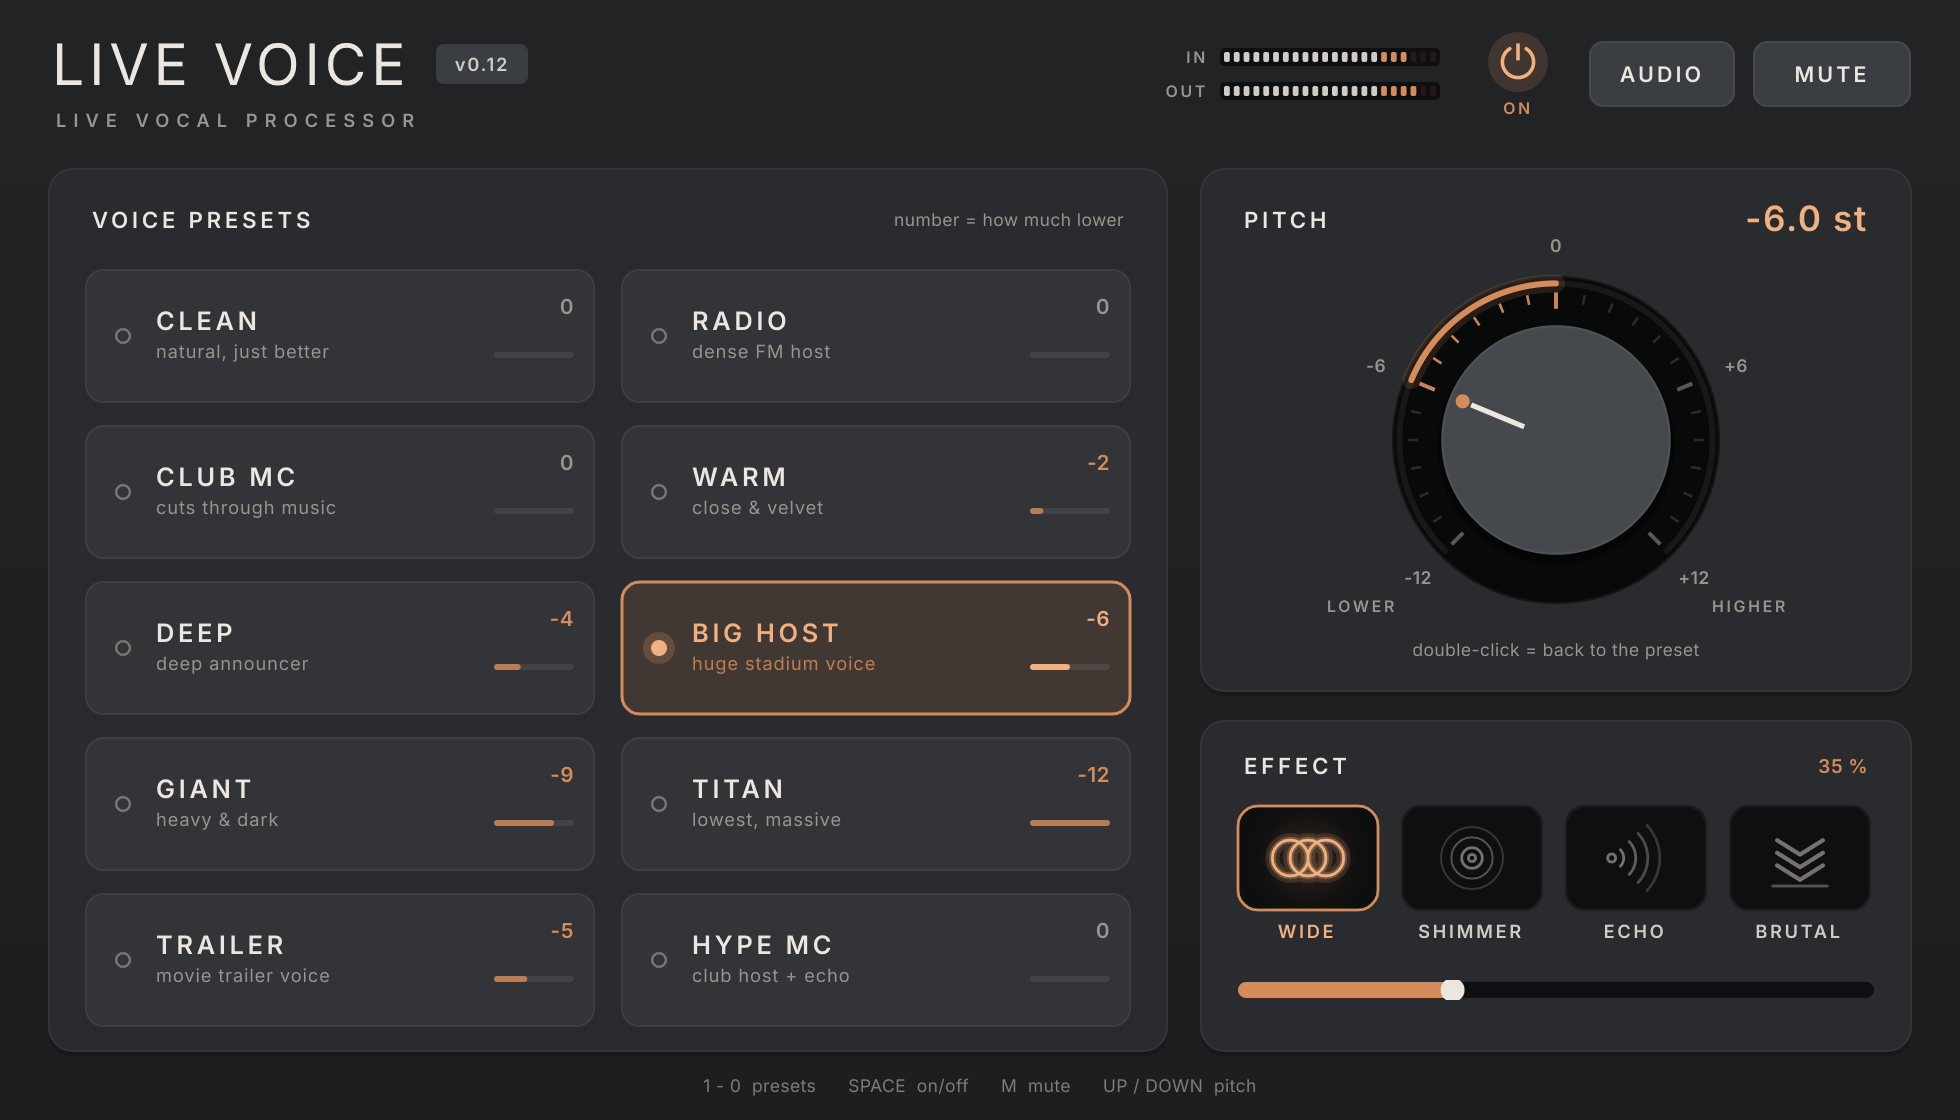
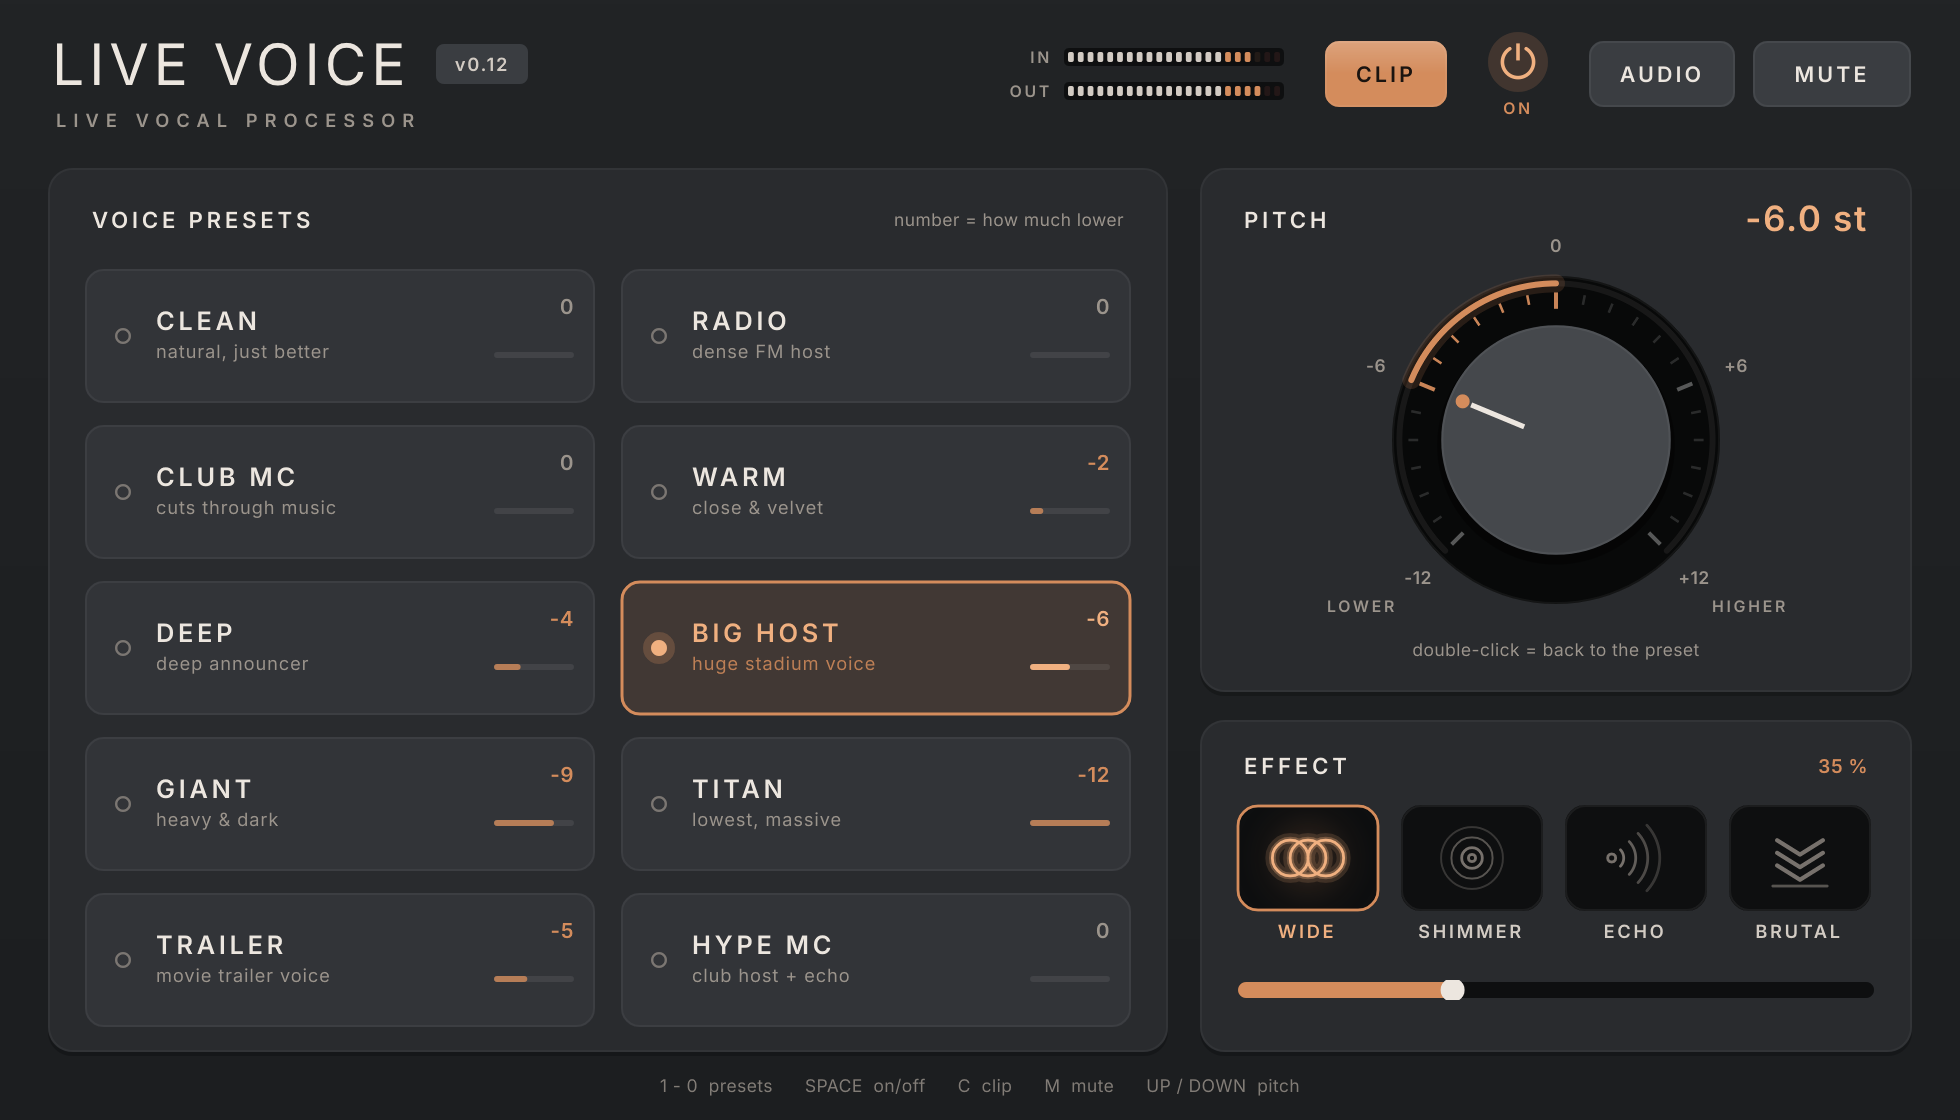
LIVE VOICE 0.12: simple preset UI, CLIP button, noise fix, highs kept
- 10 commercial VOICE PRESET tiles, PITCH knob, 4 effect buttons + amount, CLIP / ON / AUDIO / MUTE
- adaptive noise gate + post-compressor noise duck: pauses quieter than the input
- original highs above 4.5 kHz when the voice is lowered
- docs: client instructions, offline handbook, README, AGENTS

Claude-Session: https://claude.ai/code/session_01Hux4b5APwPNLszPe84Rua1

diff --git a/Source/PluginEditor.cpp b/Source/PluginEditor.cpp
@@ -394,6 +394,9 @@ LiveVoiceEditor::LiveVoiceEditor (LiveVoiceProcessor& p) : AudioProcessorEditor 
     aMute = std::make_unique<BA> (st, ParamID::mute, muteBtn);
     audioBtn.onClick = [] { if (LiveVoiceEditor::onAudioSettings) LiveVoiceEditor::onAudioSettings(); };
     addAndMakeVisible (audioBtn);
+    clipBtn.setClickingTogglesState (true);
+    addAndMakeVisible (clipBtn);
+    aClip = std::make_unique<BA> (st, ParamID::clipOn, clipBtn);
 
     for (int i = 0; i < kNumVoices; ++i)
     {
@@ -500,6 +503,7 @@ bool LiveVoiceEditor::keyPressed (const KeyPress& k)
     if (ch == 'm' || ch == 'M' || ch == L'ь' || ch == L'Ь') { setParam (ParamID::mute, getParam (ParamID::mute) > 0.5f ? 0.0f : 1.0f); return true; }
     if (k == KeyPress::upKey)   { setParam (ParamID::formant, jmin (12.0f, std::round (getParam (ParamID::formant)) + 1.0f)); return true; }
     if (k == KeyPress::downKey) { setParam (ParamID::formant, jmax (-12.0f, std::round (getParam (ParamID::formant)) - 1.0f)); return true; }
+    if (ch == 'c' || ch == 'C' || ch == L'с' || ch == L'С') { setParam (ParamID::clipOn, getParam (ParamID::clipOn) > 0.5f ? 0.0f : 1.0f); return true; }
     if (ch >= '1' && ch <= '9') { selectVoice ((int) (ch - '1')); return true; }
     if (ch == '0') { selectVoice (9); return true; }
     return false;
@@ -564,7 +568,7 @@ void LiveVoiceEditor::paint (Graphics& g)
                 Rectangle<int> (sfxPanel.getRight() - 122, sfxPanel.getY() + 12, 100, 22), Justification::centredRight);
 
     g.setColour (Palette::textDim.withAlpha (0.8f)); g.setFont (uiFont (11.0f));
-    g.drawText ("1 - 0  presets      SPACE  on/off      M  mute      UP / DOWN  pitch",
+    g.drawText ("1 - 0  presets      SPACE  on/off      C  clip      M  mute      UP / DOWN  pitch",
                 Rectangle<int> (0, getHeight() - 26, getWidth(), 18), Justification::centred);
 }
 
@@ -573,7 +577,8 @@ void LiveVoiceEditor::resized()
     muteBtn.setBounds (getWidth() - 24 - 80, 20, 80, 34);
     audioBtn.setBounds (muteBtn.getX() - 8 - 74, 20, 74, 34);
     powerBtn.setBounds (audioBtn.getX() - 18 - 34, 14, 34, 34);
-    outMeter.setBounds (powerBtn.getX() - 22 - 110, 41, 110, 9);
+    clipBtn.setBounds (powerBtn.getX() - 18 - 62, 20, 62, 34);
+    outMeter.setBounds (clipBtn.getX() - 20 - 110, 41, 110, 9);
     inMeter.setBounds (outMeter.getX(), 24, 110, 9);
 
     const int top = 84, h = getHeight() - top - 34;

diff --git a/Source/PluginEditor.h b/Source/PluginEditor.h
@@ -99,14 +99,14 @@ private:
 
     LevelMeter inMeter, outMeter;
     Lamp powerBtn;
-    juce::TextButton muteBtn { "MUTE" }, audioBtn { "AUDIO" };
+    juce::TextButton muteBtn { "MUTE" }, audioBtn { "AUDIO" }, clipBtn { "CLIP" };
     juce::OwnedArray<VoiceTile> tiles;
     juce::Slider pitchKnob;              // PITCH = voice size (parameter "formant")
     juce::OwnedArray<SfxButton> sfxBtns;
     juce::Slider amountBar;
 
     std::unique_ptr<SA> aPitch, aAmount;
-    std::unique_ptr<BA> aMute, aPower;
+    std::unique_ptr<BA> aMute, aPower, aClip;
 
     juce::Rectangle<int> voicePanel, pitchPanel, sfxPanel;
     JUCE_DECLARE_NON_COPYABLE_WITH_LEAK_DETECTOR (LiveVoiceEditor)

diff --git a/AGENTS.md b/AGENTS.md
@@ -11,10 +11,12 @@ microphone live for a DJ / event host. It is a client commission of Andrey Ulyan
 Signal flow (all in `Source/VoiceDSP.h`, header-only, no JUCE, tested by `test/dsp_test.cpp`):
 
 ```
-mic (L/R, picks the channel that carries signal) -> HPF -> soft GATE -> AUTO LEVEL (slow, only while talking, -6..+18 dB)
-  -> PITCH (Signalsmith Stretch, 30 ms block, formants kept)  ─┐  crossfade to the DIRECT path (0 ms) when pitch = formant = 0
+mic (L/R, picks the channel that carries signal) -> HPF -> GATE (threshold = room noise (rolling min over 1.6 s) +13 dB, 1:5,
+  120 ms hold) -> AUTO LEVEL (slow, only while talking, -6..+12 dB)
+  -> PITCH (Signalsmith Stretch, 30 ms block; above 4.5 kHz the ORIGINAL voice, LR4, latency-aligned) ─┐  crossfade to the DIRECT path (0 ms) when pitch = formant = 0
   -> BRUTAL layer (parallel shifter at pitch-12, same latency) ┘  and BRUTAL is off (300 ms hold, 25 ms fade)
   -> VOICE CHAIN: mud cut -> compressor -> body/presence/air -> de-esser -> warmth   (mode x STRENGTH)
+  -> NOISE DUCK: the gate gain again (delayed by the path latency), so pauses end quieter than the input
   -> SFX: WIDE (4-tap modulated doubler) | SHIMMER (+12 st shifter into an 8-line FDN) | ECHO THROW (ducked ping-pong) | BRUTAL
   -> CLIP (button, param `clipOn`: +8 dB into tanh with ADAA, -8+2 dB back, level-matched, 0 latency)
   -> OUTPUT gain -> MUTE (smoothed) -> limiter (-1 dBFS) + soft clip above 0.8
@@ -42,8 +44,8 @@ Audio is processed in 32-sample chunks. Modes: NATURAL, RADIO, CLUB, DEEP (`kMod
 | File | What |
 |---|---|
 | `Source/VoiceDSP.h` | All DSP (Biquad, DelayLine, PitchShifter wrapper, FDN reverb, `VoiceEngine`), meters as atomics |
-| `Source/PluginProcessor.*` | APVTS parameters, UndoManager, presets (`.lvpreset` XML in Documents/LIVE VOICE/Presets, folders, factory set written once into `Factory/`) |
-| `Source/PluginEditor.*` | UI 1060x586: `LiveVoiceLook`, `Lamp`, `LevelMeter`, `SfxScreen` (icons), `SaveOverlay`, `LiveVoiceEditor` (preset bar, undo, shortcuts) |
+| `Source/PluginProcessor.*` | APVTS parameters, `kVoices` (the 10 preset tiles: mode, strength, pitch, clip, sfx), UndoManager + file-preset code (not used by the 0.12 UI, kept; factory files are no longer written) |
+| `Source/PluginEditor.*` | UI 980x560 (0.12 simple): `LiveVoiceLook`, `Lamp`, `LevelMeter`, `VoiceTile` (10 presets from `kVoices` in PluginProcessor.h), `SfxButton` + `drawSfxIcon`, `LiveVoiceEditor` (CLIP/ON/AUDIO/MUTE, PITCH knob, effect buttons + amount bar, keys) |
 | `Source/StandaloneApp.cpp` | Custom standalone app: mic never muted, audio window on first run, prefers "Windows Audio (Low Latency Mode)", settings in AppData/Roaming/LIVE VOICE |
 | `tools/Snapshot.cpp` | Renders UI PNGs (CI + local previews) |
 | `test/dsp_test.cpp` | DSP tests: NaN, clipping, latency (direct ~0, pitch ~30 ms), noise floor, pitch accuracy, live knob sweep clicks, CPU |
@@ -69,7 +71,11 @@ v0.11: the big PITCH knob now drives the parameter `formant` (voice size: the ow
 the note shift (param `pitch`) is legacy: kept for old states, forced to 0 in processBlock, not in the UI (on speech it barely
 changed anything and sounded hissy with the 30 ms block). FORMANT row removed. Factory presets are rewritten when their
 `version` differs from the app's label.
-v0.12: CLIP button in the header (key C), saved in presets; factory: Radio Night, Club MC, Brutal Announcer have CLIP on.
+v0.12: client asked for a super simple UI: 10 "commercial" VOICE PRESET tiles (param `voice`; a tile writes mode, strength,
+formant, clipOn, sfx*), PITCH knob, 4 effect buttons + amount bar, CLIP button (param `clipOn`, ADAA tanh, level matched).
+Removed from UI: modes, STRENGTH, SAVE/UNDO/preset bar. Noise fix (owner: presets made the hiss louder): adaptive gate +
+post-compressor duck, AGC max +12, less air; test 7 checks pauses are quieter than the input. Highs kept when pitching
+(test 8: 8 kHz level at PITCH -6/-12).
 
 ## 6. How it was made
 Built by the owner talking to Claude (Anthropic) in a claude.ai session; the owner described, Claude wrote the code,

diff --git a/README-RU.md b/README-RU.md
@@ -4,21 +4,19 @@
 Делает голос «дорогим» (как на радио), позволяет крутить высоту голоса вживую и добавляет эффекты.
 Автор: Андрей Ульянов (Thematic). Сделано с помощью Claude (Anthropic).
 
-## Что внутри
+## Что внутри (0.12 — простой интерфейс)
 
 | Блок | Что делает |
 |---|---|
-| **VOICE** | Цепочка обработки: срез низа → гейт → **авто-уровень** (тихие USB-микрофоны подтягиваются сами) → чистка «грязи» → компрессор → тело/присутствие/воздух → де-эссер → теплота. 4 режима: NATURAL, RADIO, CLUB, DEEP. STRENGTH — сила |
-| **PITCH** | Большая ручка ±12: меняет «размер» голоса (форманты) — влево ниже и мощнее, вправо выше. Плавно, можно играть вживую. Движок: [Signalsmith Stretch](https://signalsmith-audio.co.uk/code/stretch/) (MIT). С 0.11 старый сдвиг ноты убран (на речи почти не слышен и давал шелест) |
-| **SFX** | WIDE (стерео-дублер, не пропадает в моно), SHIMMER (ореол на октаву выше), ECHO THROW (пинг-понг эхо, приглушается пока говоришь), BRUTAL (слой на октаву ниже с перегрузом). AMOUNT — сила |
-| **Выход** | CLIP (кнопка: мягкий клиппер, плотнее без прибавки громкости, 0 мс), LEVEL, MUTE, лимитер −1 dBFS |
-| **Пресеты** | `Документы/LIVE VOICE/Presets`, папки, SAVE/REPLACE, 6 заводских в папке Factory |
-| **UNDO** | Кнопка + Ctrl+Z / Ctrl+Shift+Z (Ctrl+Y) |
+| **VOICE PRESETS** | 10 готовых «коммерческих» звуков: CLEAN, RADIO, CLUB MC, HYPE MC (без понижения), WARM −2, DEEP −4, TRAILER −5, BIG HOST −6, GIANT −9, TITAN −12. Внутри: режим обработки, сила, понижение, клиппер, иногда эффект |
+| **PITCH** | Большая ручка ±12: меняет «размер» голоса (форманты), верха выше 4.5 кГц остаются от оригинала. Движок [Signalsmith Stretch](https://signalsmith-audio.co.uk/code/stretch/) (MIT) |
+| **EFFECT** | WIDE, SHIMMER, ECHO, BRUTAL + полоска силы |
+| **Шапка** | IN/OUT, CLIP (клиппер), ON, AUDIO, MUTE |
+| **Шум** | Умный гейт (шум комнаты +13 дБ) + повторное подавление после компрессора: паузы тише, чем на входе |
 
-**Задержка:** при PITCH = 0 и выключенном BRUTAL голос идёт мимо питч-шифтера — 0 мс обработки
-(программа сама плавно переключается). При сдвиге высоты — ~30 мс.
+**Задержка:** пресеты без понижения — 0 мс обработки, с понижением — ~30 мс.
 
-**Горячие клавиши:** ПРОБЕЛ — голос вкл/выкл, M — mute, ↑/↓ — pitch ±1, 0 — сброс pitch, Ctrl+Z — undo, Ctrl+S — сохранить пресет.
+**Горячие клавиши:** 1…9, 0 — пресеты, ПРОБЕЛ — вкл/выкл, C — clip, M — mute, ↑/↓ — pitch.
 
 ## Если нет интернета
 Полная инструкция «на всё»: [`docs/OFFLINE-RU.txt`](docs/OFFLINE-RU.txt) — запуск, писк, задержка, сборка без интернета, продолжение с другим ИИ.
